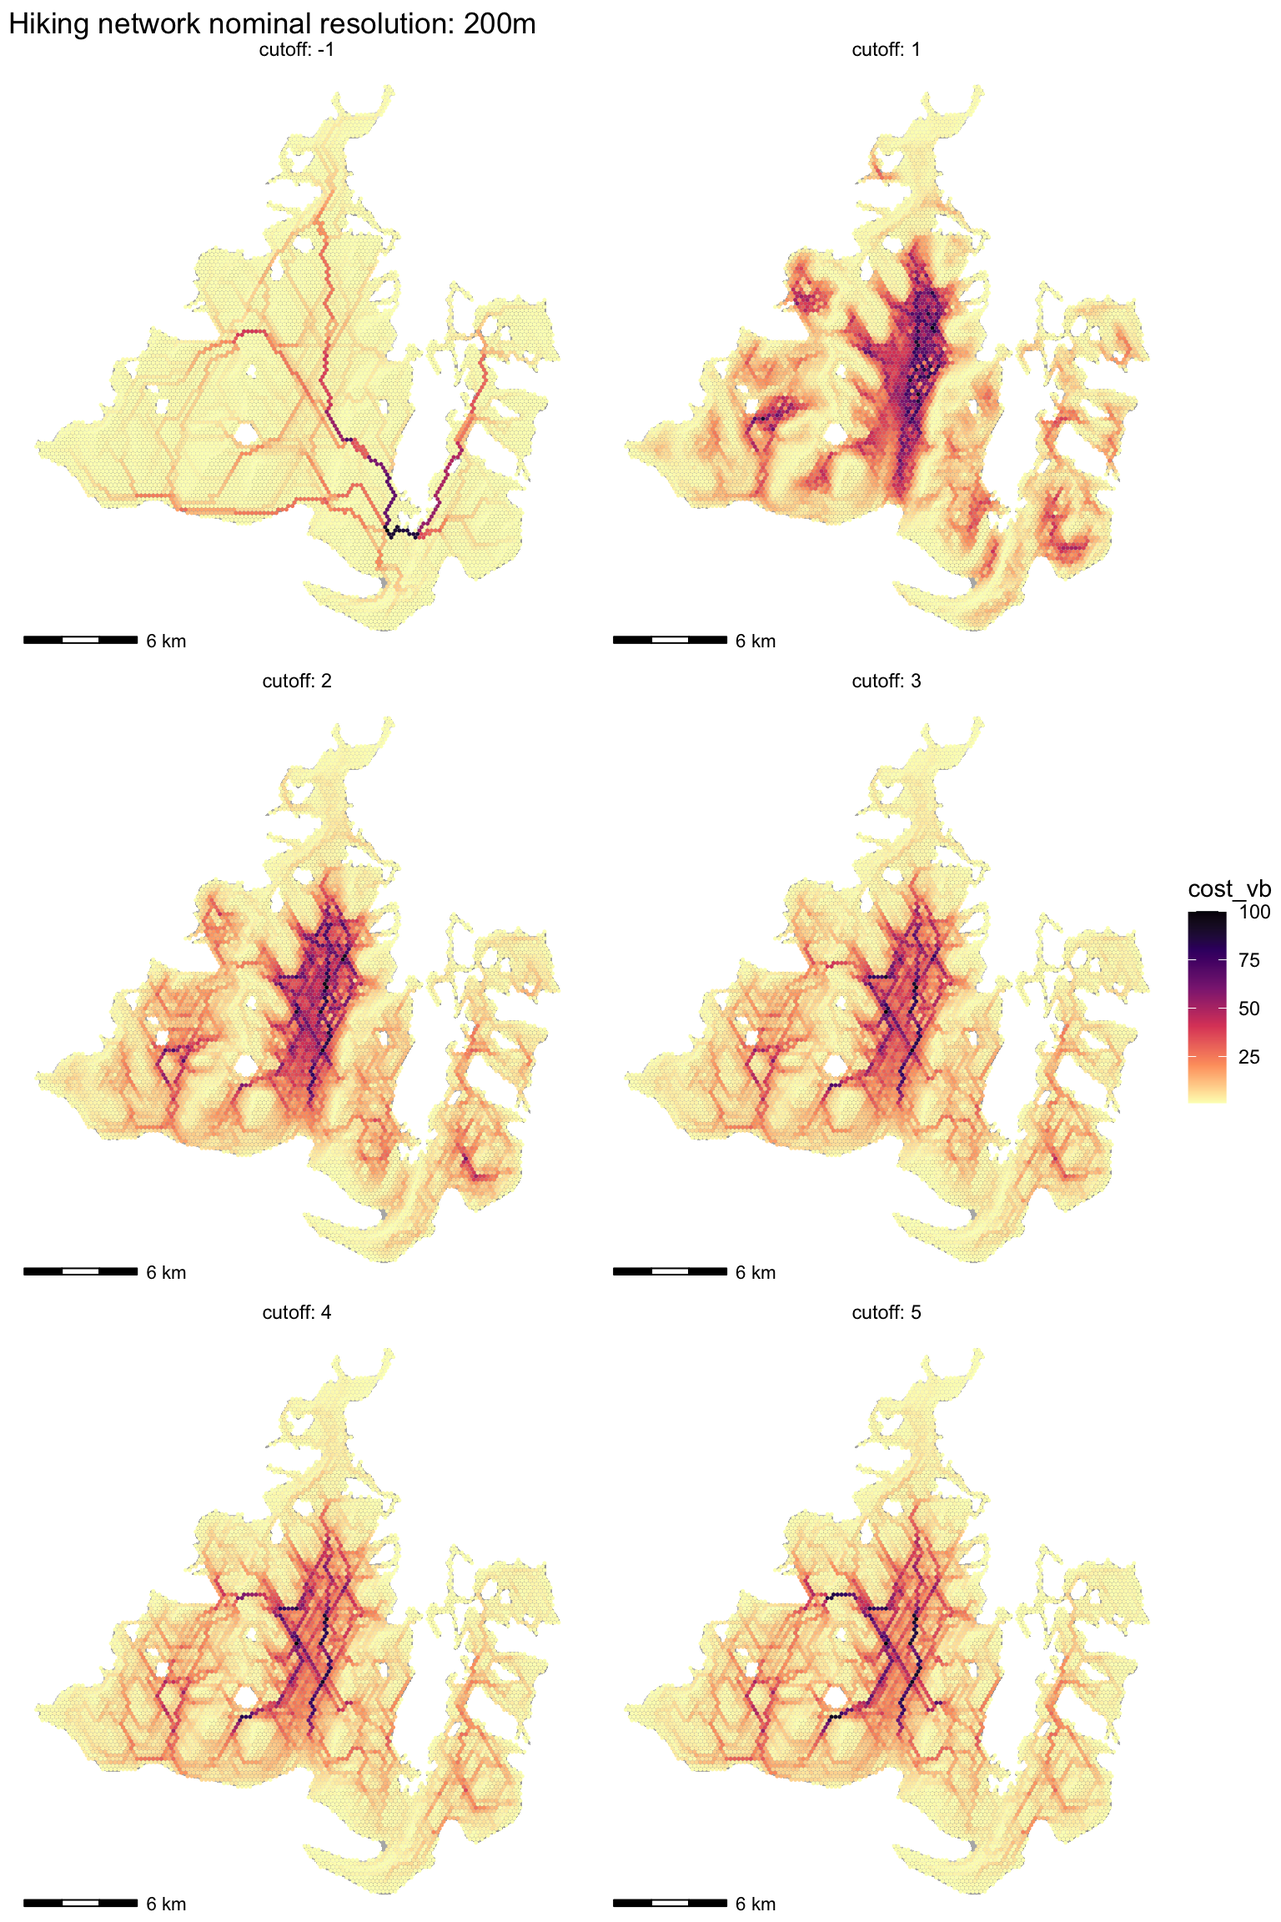
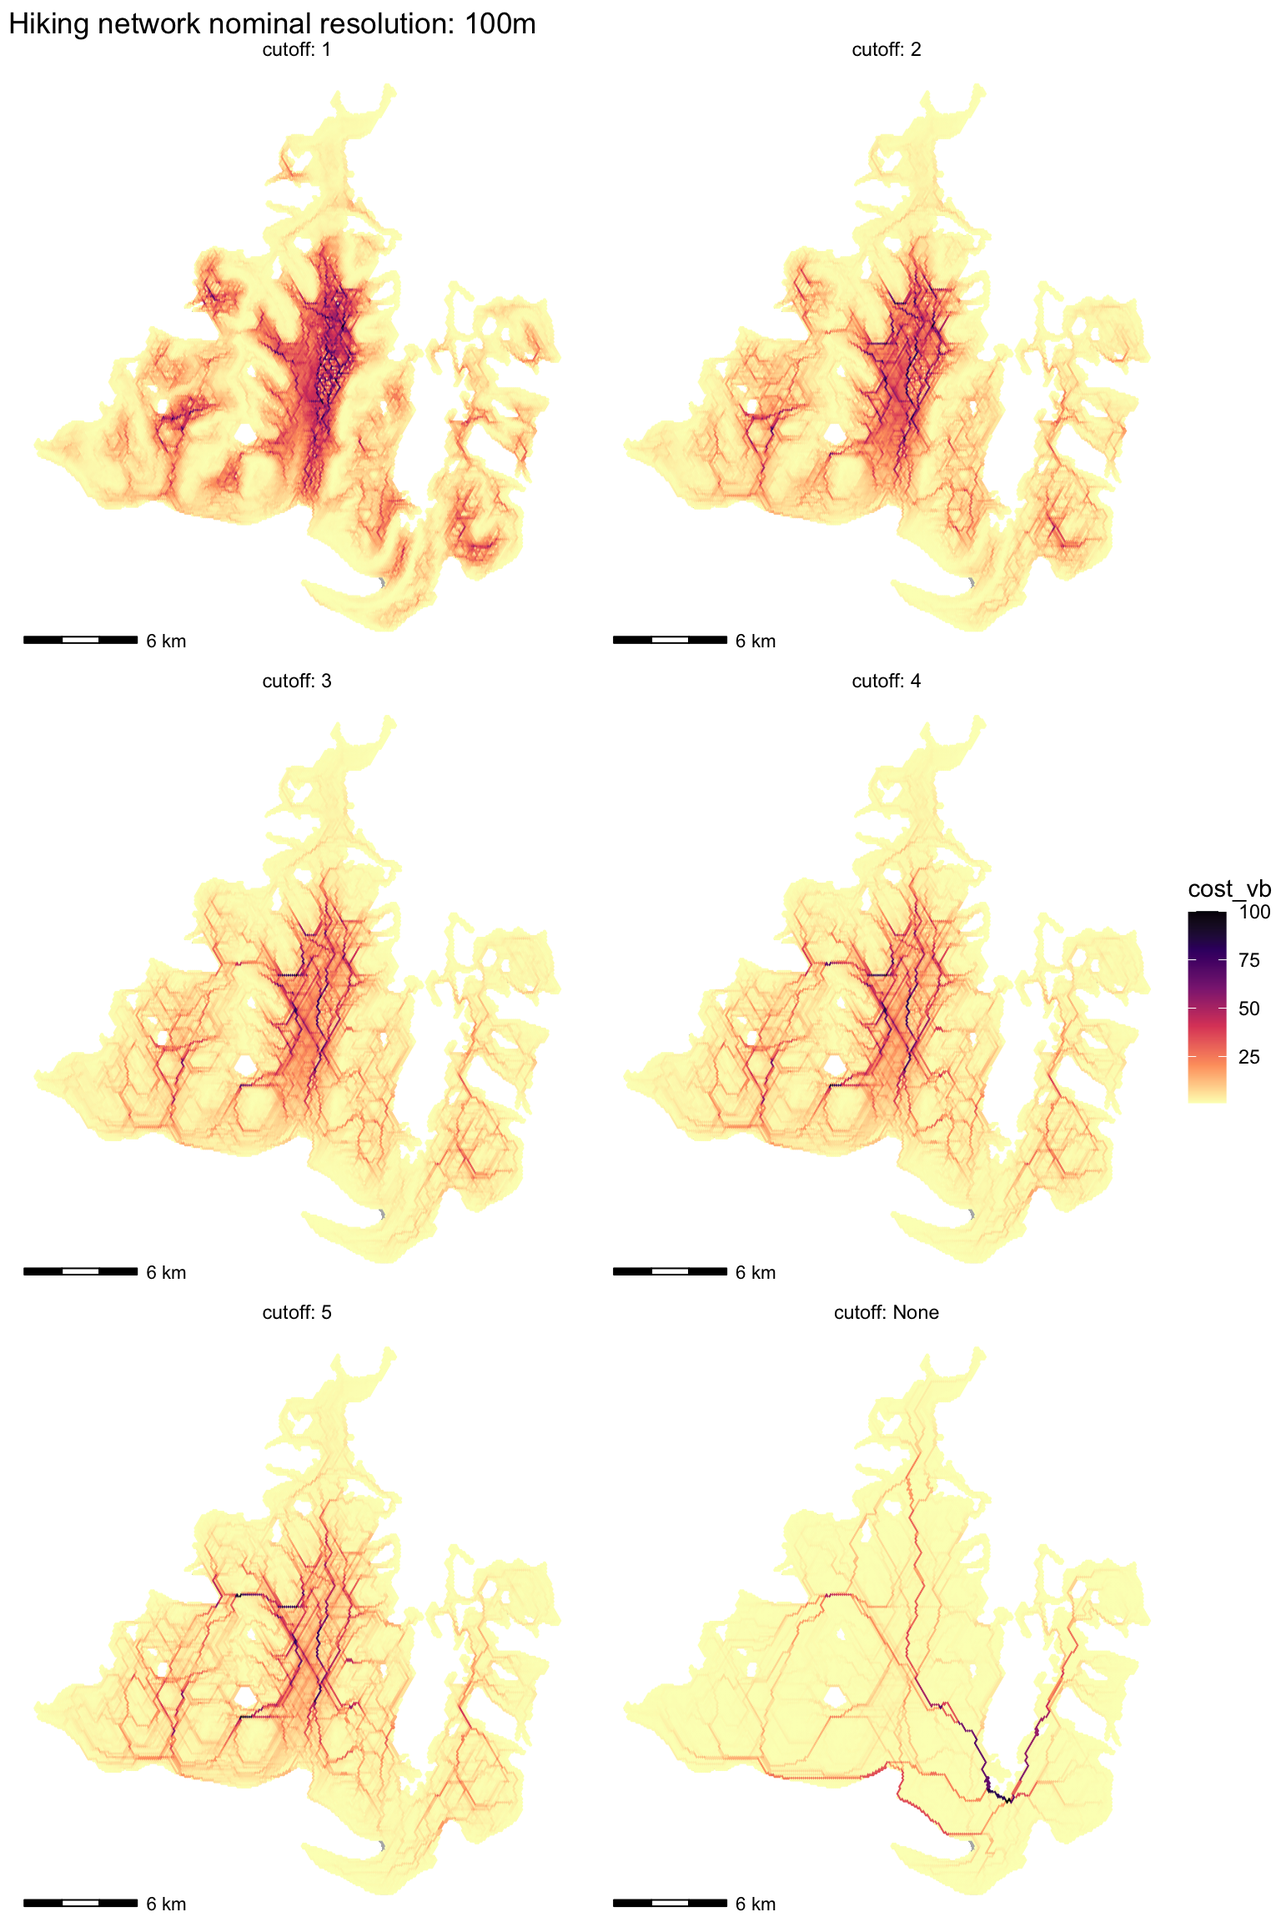
a bit more clarification on compute times

diff --git a/docs/notebooks/07-compute-times-of-hiking-network-analysis.html b/docs/notebooks/07-compute-times-of-hiking-network-analysis.html
@@ -409,33 +409,39 @@ Update History
 <span id="cb3-66"><a href="#cb3-66" aria-hidden="true" tabindex="-1"></a>results <span class="ot">&lt;-</span> <span class="fu">bind_rows</span>(results)</span></code><button title="Copy to Clipboard" class="code-copy-button"><i class="bi"></i></button></pre></div>
 </div>
 <div class="cell">
-<div class="sourceCode cell-code" id="cb4"><pre class="sourceCode r code-with-copy"><code class="sourceCode r"><span id="cb4-1"><a href="#cb4-1" aria-hidden="true" tabindex="-1"></a>hillshade_basemap <span class="sc">+</span> </span>
-<span id="cb4-2"><a href="#cb4-2" aria-hidden="true" tabindex="-1"></a>  <span class="fu">geom_point</span>(<span class="at">data =</span> results <span class="sc">|&gt;</span> <span class="fu">filter</span>(resolution <span class="sc">==</span> <span class="dv">100</span>), </span>
-<span id="cb4-3"><a href="#cb4-3" aria-hidden="true" tabindex="-1"></a>             <span class="fu">aes</span>(<span class="at">x =</span> x, <span class="at">y =</span> y, <span class="at">colour =</span> cost_vb), <span class="at">size =</span> <span class="fl">0.09</span>) <span class="sc">+</span> </span>
-<span id="cb4-4"><a href="#cb4-4" aria-hidden="true" tabindex="-1"></a>  <span class="fu">scale_colour_viridis_c</span>(<span class="at">option =</span> <span class="st">"A"</span>, <span class="at">direction =</span> <span class="sc">-</span><span class="dv">1</span>) <span class="sc">+</span> </span>
-<span id="cb4-5"><a href="#cb4-5" aria-hidden="true" tabindex="-1"></a>  <span class="fu">coord_equal</span>() <span class="sc">+</span> </span>
-<span id="cb4-6"><a href="#cb4-6" aria-hidden="true" tabindex="-1"></a>  <span class="fu">facet_wrap</span>( <span class="sc">~</span> cutoff, <span class="at">nrow =</span> <span class="dv">3</span>, <span class="at">labeller =</span> label_both) <span class="sc">+</span></span>
-<span id="cb4-7"><a href="#cb4-7" aria-hidden="true" tabindex="-1"></a>  <span class="fu">ggtitle</span>(<span class="st">"Hiking network nominal resolution: 100m"</span>)</span></code><button title="Copy to Clipboard" class="code-copy-button"><i class="bi"></i></button></pre></div>
+<div class="sourceCode cell-code" id="cb4"><pre class="sourceCode r code-with-copy"><code class="sourceCode r"><span id="cb4-1"><a href="#cb4-1" aria-hidden="true" tabindex="-1"></a>results <span class="ot">&lt;-</span> results <span class="sc">|&gt;</span> </span>
+<span id="cb4-2"><a href="#cb4-2" aria-hidden="true" tabindex="-1"></a>  <span class="fu">mutate</span>(<span class="at">resolution =</span> <span class="fu">as.factor</span>(resolution),</span>
+<span id="cb4-3"><a href="#cb4-3" aria-hidden="true" tabindex="-1"></a>         <span class="at">cutoff =</span> <span class="fu">as.factor</span>(cutoff)) <span class="sc">|&gt;</span></span>
+<span id="cb4-4"><a href="#cb4-4" aria-hidden="true" tabindex="-1"></a>  <span class="fu">mutate</span>(<span class="at">cutoff =</span> <span class="fu">if_else</span>(cutoff <span class="sc">==</span> <span class="sc">-</span><span class="dv">1</span>, <span class="st">"None"</span>, cutoff))</span></code><button title="Copy to Clipboard" class="code-copy-button"><i class="bi"></i></button></pre></div>
+</div>
+<div class="cell">
+<div class="sourceCode cell-code" id="cb5"><pre class="sourceCode r code-with-copy"><code class="sourceCode r"><span id="cb5-1"><a href="#cb5-1" aria-hidden="true" tabindex="-1"></a>hillshade_basemap <span class="sc">+</span> </span>
+<span id="cb5-2"><a href="#cb5-2" aria-hidden="true" tabindex="-1"></a>  <span class="fu">geom_point</span>(<span class="at">data =</span> results <span class="sc">|&gt;</span> <span class="fu">filter</span>(resolution <span class="sc">==</span> <span class="dv">100</span>), </span>
+<span id="cb5-3"><a href="#cb5-3" aria-hidden="true" tabindex="-1"></a>             <span class="fu">aes</span>(<span class="at">x =</span> x, <span class="at">y =</span> y, <span class="at">colour =</span> cost_vb), <span class="at">size =</span> <span class="fl">0.09</span>) <span class="sc">+</span> </span>
+<span id="cb5-4"><a href="#cb5-4" aria-hidden="true" tabindex="-1"></a>  <span class="fu">scale_colour_viridis_c</span>(<span class="at">option =</span> <span class="st">"A"</span>, <span class="at">direction =</span> <span class="sc">-</span><span class="dv">1</span>) <span class="sc">+</span> </span>
+<span id="cb5-5"><a href="#cb5-5" aria-hidden="true" tabindex="-1"></a>  <span class="fu">coord_equal</span>() <span class="sc">+</span> </span>
+<span id="cb5-6"><a href="#cb5-6" aria-hidden="true" tabindex="-1"></a>  <span class="fu">facet_wrap</span>( <span class="sc">~</span> cutoff, <span class="at">nrow =</span> <span class="dv">3</span>, <span class="at">labeller =</span> label_both) <span class="sc">+</span></span>
+<span id="cb5-7"><a href="#cb5-7" aria-hidden="true" tabindex="-1"></a>  <span class="fu">ggtitle</span>(<span class="st">"Hiking network nominal resolution: 100m"</span>)</span></code><button title="Copy to Clipboard" class="code-copy-button"><i class="bi"></i></button></pre></div>
 <div class="cell-output-display">
 <div>
 <figure class="figure">
-<p><a href="07-compute-times-of-hiking-network-analysis_files/figure-html/unnamed-chunk-4-1.png" class="lightbox" data-gallery="quarto-lightbox-gallery-1"><img src="07-compute-times-of-hiking-network-analysis_files/figure-html/unnamed-chunk-4-1.png" class="img-fluid figure-img" width="768"></a></p>
+<p><a href="07-compute-times-of-hiking-network-analysis_files/figure-html/unnamed-chunk-5-1.png" class="lightbox" data-gallery="quarto-lightbox-gallery-1"><img src="07-compute-times-of-hiking-network-analysis_files/figure-html/unnamed-chunk-5-1.png" class="img-fluid figure-img" width="768"></a></p>
 </figure>
 </div>
 </div>
 </div>
 <div class="cell">
-<div class="sourceCode cell-code" id="cb5"><pre class="sourceCode r code-with-copy"><code class="sourceCode r"><span id="cb5-1"><a href="#cb5-1" aria-hidden="true" tabindex="-1"></a>hillshade_basemap <span class="sc">+</span> </span>
-<span id="cb5-2"><a href="#cb5-2" aria-hidden="true" tabindex="-1"></a>  <span class="fu">geom_point</span>(<span class="at">data =</span> results <span class="sc">|&gt;</span> <span class="fu">filter</span>(resolution <span class="sc">==</span> <span class="dv">200</span>), </span>
-<span id="cb5-3"><a href="#cb5-3" aria-hidden="true" tabindex="-1"></a>             <span class="fu">aes</span>(<span class="at">x =</span> x, <span class="at">y =</span> y, <span class="at">colour =</span> cost_vb), <span class="at">size =</span> <span class="fl">0.2</span>) <span class="sc">+</span> </span>
-<span id="cb5-4"><a href="#cb5-4" aria-hidden="true" tabindex="-1"></a>  <span class="fu">scale_colour_viridis_c</span>(<span class="at">option =</span> <span class="st">"A"</span>, <span class="at">direction =</span> <span class="sc">-</span><span class="dv">1</span>) <span class="sc">+</span></span>
-<span id="cb5-5"><a href="#cb5-5" aria-hidden="true" tabindex="-1"></a>  <span class="fu">coord_equal</span>() <span class="sc">+</span> </span>
-<span id="cb5-6"><a href="#cb5-6" aria-hidden="true" tabindex="-1"></a>  <span class="fu">facet_wrap</span>( <span class="sc">~</span> cutoff, <span class="at">nrow =</span> <span class="dv">3</span>, <span class="at">labeller =</span> label_both) <span class="sc">+</span></span>
-<span id="cb5-7"><a href="#cb5-7" aria-hidden="true" tabindex="-1"></a>  <span class="fu">ggtitle</span>(<span class="st">"Hiking network nominal resolution: 200m"</span>)</span></code><button title="Copy to Clipboard" class="code-copy-button"><i class="bi"></i></button></pre></div>
+<div class="sourceCode cell-code" id="cb6"><pre class="sourceCode r code-with-copy"><code class="sourceCode r"><span id="cb6-1"><a href="#cb6-1" aria-hidden="true" tabindex="-1"></a>hillshade_basemap <span class="sc">+</span> </span>
+<span id="cb6-2"><a href="#cb6-2" aria-hidden="true" tabindex="-1"></a>  <span class="fu">geom_point</span>(<span class="at">data =</span> results <span class="sc">|&gt;</span> <span class="fu">filter</span>(resolution <span class="sc">==</span> <span class="dv">200</span>), </span>
+<span id="cb6-3"><a href="#cb6-3" aria-hidden="true" tabindex="-1"></a>             <span class="fu">aes</span>(<span class="at">x =</span> x, <span class="at">y =</span> y, <span class="at">colour =</span> cost_vb), <span class="at">size =</span> <span class="fl">0.2</span>) <span class="sc">+</span> </span>
+<span id="cb6-4"><a href="#cb6-4" aria-hidden="true" tabindex="-1"></a>  <span class="fu">scale_colour_viridis_c</span>(<span class="at">option =</span> <span class="st">"A"</span>, <span class="at">direction =</span> <span class="sc">-</span><span class="dv">1</span>) <span class="sc">+</span></span>
+<span id="cb6-5"><a href="#cb6-5" aria-hidden="true" tabindex="-1"></a>  <span class="fu">coord_equal</span>() <span class="sc">+</span> </span>
+<span id="cb6-6"><a href="#cb6-6" aria-hidden="true" tabindex="-1"></a>  <span class="fu">facet_wrap</span>( <span class="sc">~</span> cutoff, <span class="at">nrow =</span> <span class="dv">3</span>, <span class="at">labeller =</span> label_both) <span class="sc">+</span></span>
+<span id="cb6-7"><a href="#cb6-7" aria-hidden="true" tabindex="-1"></a>  <span class="fu">ggtitle</span>(<span class="st">"Hiking network nominal resolution: 200m"</span>)</span></code><button title="Copy to Clipboard" class="code-copy-button"><i class="bi"></i></button></pre></div>
 <div class="cell-output-display">
 <div>
 <figure class="figure">
-<p><a href="07-compute-times-of-hiking-network-analysis_files/figure-html/unnamed-chunk-5-1.png" class="lightbox" data-gallery="quarto-lightbox-gallery-2"><img src="07-compute-times-of-hiking-network-analysis_files/figure-html/unnamed-chunk-5-1.png" class="img-fluid figure-img" width="768"></a></p>
+<p><a href="07-compute-times-of-hiking-network-analysis_files/figure-html/unnamed-chunk-6-1.png" class="lightbox" data-gallery="quarto-lightbox-gallery-2"><img src="07-compute-times-of-hiking-network-analysis_files/figure-html/unnamed-chunk-6-1.png" class="img-fluid figure-img" width="768"></a></p>
 </figure>
 </div>
 </div>
@@ -456,29 +462,28 @@ Update History
 <h2 class="anchored" data-anchor-id="timings">Timings</h2>
 <p>The timing for this small area of interest at these resolutions and cutoff times are tabulated below.</p>
 <div class="cell">
-<div class="sourceCode cell-code" id="cb7"><pre class="sourceCode r code-with-copy"><code class="sourceCode r"><span id="cb7-1"><a href="#cb7-1" aria-hidden="true" tabindex="-1"></a>df <span class="ot">&lt;-</span> results <span class="sc">|&gt;</span> </span>
-<span id="cb7-2"><a href="#cb7-2" aria-hidden="true" tabindex="-1"></a>  <span class="fu">select</span>(resolution, vb_base_time, vb_cost_time, cutoff) <span class="sc">|&gt;</span></span>
-<span id="cb7-3"><a href="#cb7-3" aria-hidden="true" tabindex="-1"></a>  <span class="fu">filter</span>(cutoff <span class="sc">&gt;</span> <span class="dv">0</span>) <span class="sc">|&gt;</span></span>
-<span id="cb7-4"><a href="#cb7-4" aria-hidden="true" tabindex="-1"></a>  <span class="fu">mutate</span>(<span class="at">resolution =</span> <span class="fu">as.factor</span>(resolution)) <span class="sc">|&gt;</span></span>
-<span id="cb7-5"><a href="#cb7-5" aria-hidden="true" tabindex="-1"></a>  <span class="fu">distinct</span>() <span class="sc">|&gt;</span></span>
-<span id="cb7-6"><a href="#cb7-6" aria-hidden="true" tabindex="-1"></a>  <span class="fu">pivot_longer</span>(<span class="at">cols =</span> <span class="fu">c</span>(vb_base_time, vb_cost_time))</span>
-<span id="cb7-7"><a href="#cb7-7" aria-hidden="true" tabindex="-1"></a></span>
-<span id="cb7-8"><a href="#cb7-8" aria-hidden="true" tabindex="-1"></a><span class="fu">ggplot</span>(df) <span class="sc">+</span></span>
-<span id="cb7-9"><a href="#cb7-9" aria-hidden="true" tabindex="-1"></a>  <span class="fu">geom_col</span>(<span class="fu">aes</span>(<span class="at">x =</span> cutoff, <span class="at">y =</span> value, <span class="at">group =</span> resolution, <span class="at">fill =</span> resolution), <span class="at">position =</span> <span class="st">"dodge"</span>) <span class="sc">+</span></span>
-<span id="cb7-10"><a href="#cb7-10" aria-hidden="true" tabindex="-1"></a>  <span class="fu">xlab</span>(<span class="st">"Betweenness calculation est. hiking time cutoff"</span>) <span class="sc">+</span></span>
-<span id="cb7-11"><a href="#cb7-11" aria-hidden="true" tabindex="-1"></a>  <span class="fu">ylab</span>(<span class="st">"Time, sec"</span>) <span class="sc">+</span></span>
-<span id="cb7-12"><a href="#cb7-12" aria-hidden="true" tabindex="-1"></a>  <span class="fu">theme_minimal</span>()</span></code><button title="Copy to Clipboard" class="code-copy-button"><i class="bi"></i></button></pre></div>
+<div class="sourceCode cell-code" id="cb8"><pre class="sourceCode r code-with-copy"><code class="sourceCode r"><span id="cb8-1"><a href="#cb8-1" aria-hidden="true" tabindex="-1"></a>df <span class="ot">&lt;-</span> results <span class="sc">|&gt;</span> </span>
+<span id="cb8-2"><a href="#cb8-2" aria-hidden="true" tabindex="-1"></a>  <span class="fu">select</span>(resolution, vb_base_time, vb_cost_time, cutoff) <span class="sc">|&gt;</span></span>
+<span id="cb8-3"><a href="#cb8-3" aria-hidden="true" tabindex="-1"></a>  <span class="fu">distinct</span>() <span class="sc">|&gt;</span></span>
+<span id="cb8-4"><a href="#cb8-4" aria-hidden="true" tabindex="-1"></a>  <span class="fu">pivot_longer</span>(<span class="at">cols =</span> <span class="fu">c</span>(vb_base_time, vb_cost_time))</span>
+<span id="cb8-5"><a href="#cb8-5" aria-hidden="true" tabindex="-1"></a></span>
+<span id="cb8-6"><a href="#cb8-6" aria-hidden="true" tabindex="-1"></a><span class="fu">ggplot</span>(df) <span class="sc">+</span></span>
+<span id="cb8-7"><a href="#cb8-7" aria-hidden="true" tabindex="-1"></a>  <span class="fu">geom_col</span>(<span class="fu">aes</span>(<span class="at">x =</span> cutoff, <span class="at">y =</span> value, <span class="at">group =</span> resolution, <span class="at">fill =</span> resolution), <span class="at">position =</span> <span class="st">"dodge"</span>) <span class="sc">+</span></span>
+<span id="cb8-8"><a href="#cb8-8" aria-hidden="true" tabindex="-1"></a>  <span class="fu">xlab</span>(<span class="st">"Betweenness calculation est. hiking time cutoff"</span>) <span class="sc">+</span></span>
+<span id="cb8-9"><a href="#cb8-9" aria-hidden="true" tabindex="-1"></a>  <span class="fu">ylab</span>(<span class="st">"Time, sec"</span>) <span class="sc">+</span></span>
+<span id="cb8-10"><a href="#cb8-10" aria-hidden="true" tabindex="-1"></a>  <span class="fu">theme_minimal</span>()</span></code><button title="Copy to Clipboard" class="code-copy-button"><i class="bi"></i></button></pre></div>
 <div class="cell-output-display">
 <div>
 <figure class="figure">
-<p><a href="07-compute-times-of-hiking-network-analysis_files/figure-html/unnamed-chunk-6-1.png" class="lightbox" data-gallery="quarto-lightbox-gallery-3"><img src="07-compute-times-of-hiking-network-analysis_files/figure-html/unnamed-chunk-6-1.png" class="img-fluid figure-img" width="672"></a></p>
+<p><a href="07-compute-times-of-hiking-network-analysis_files/figure-html/unnamed-chunk-7-1.png" class="lightbox" data-gallery="quarto-lightbox-gallery-3"><img src="07-compute-times-of-hiking-network-analysis_files/figure-html/unnamed-chunk-7-1.png" class="img-fluid figure-img" width="672"></a></p>
 </figure>
 </div>
 </div>
 </div>
 <p>This confirms that the time to perform betweenness centrality estimation increases with the square of the number of vertices in the network. The finer resolution network (100m) has <em>four</em> times as many nodes, and analysis takes around 16 times longer (&gt;15 seconds vs ~ 1 second in the cutoff = 5 case).</p>
-<p>Further analysis of larger networks (the networks for the largest contiguous region are about 10 times larger than this one) confirms this result, with comparable analyses taking ~100 times longer, which on the computer used (an M2 Mac Mini) translates to around 45 minutes for the most extensive betweenness estimation at 100m resolution.</p>
-<p>These results suggest that it is important to settle on a resolution and cutoff distance judged appropriate for ongoing work to avoid costly repetition of sometimes time-consuming analysis.</p>
+<p>When no cutoff time is used, the betweenness calculation takes <em>much</em> longer. It is clear from the maps above that the no cutoff case identifies ‘arterials’ although it is unclear that this is the most relevant concern for expected environmental impacts.</p>
+<p>Further analysis of larger networks (the networks for the largest contiguous region are about 10 times larger than this one) confirms this result, with comparable analyses taking ~100 times longer, which on the computer used (an M2 Mac Mini) translates to several hours compute time for the most extensive betweenness estimation at 100m resolution.</p>
+<p>These results suggest that it is important to settle on a resolution and cutoff distance judged appropriate for ongoing work to avoid costly repetition of sometimes time-consuming analysis. It is almost certainly preferable to apply some cutoff estimated hiking time to the calculation in any case.</p>
 
 
 </section>
@@ -906,7 +911,7 @@ window.document.addEventListener("DOMContentLoaded", function (event) {
   </div>
 </nav>
 </div> <!-- /content -->
-<script>var lightboxQuarto = GLightbox({"selector":".lightbox","openEffect":"zoom","closeEffect":"zoom","descPosition":"bottom","loop":false});
+<script>var lightboxQuarto = GLightbox({"openEffect":"zoom","closeEffect":"zoom","descPosition":"bottom","loop":false,"selector":".lightbox"});
 window.onload = () => {
   lightboxQuarto.on('slide_before_load', (data) => {
     const { slideIndex, slideNode, slideConfig, player, trigger } = data;

diff --git a/docs/index.html b/docs/index.html
@@ -464,10 +464,10 @@ David O’Sullivan
 </a>
 </div>
 </div>
-<div class="quarto-post image-right" data-index="7" data-listing-date-sort="1725278400000" data-listing-file-modified-sort="1725418360483" data-listing-date-modified-sort="NaN" data-listing-reading-time-sort="7" data-listing-word-count-sort="1202">
+<div class="quarto-post image-right" data-index="7" data-listing-date-sort="1725278400000" data-listing-file-modified-sort="1725419600872" data-listing-date-modified-sort="NaN" data-listing-reading-time-sort="7" data-listing-word-count-sort="1279">
 <div class="thumbnail">
 <p><a href="./notebooks/07-compute-times-of-hiking-network-analysis.html" class="no-external"></a></p><a href="./notebooks/07-compute-times-of-hiking-network-analysis.html" class="no-external">
-<p class="card-img-top"><img src="notebooks/07-compute-times-of-hiking-network-analysis_files/figure-html/unnamed-chunk-4-1.png"  class="thumbnail-image card-img"/></p>
+<p class="card-img-top"><img src="notebooks/07-compute-times-of-hiking-network-analysis_files/figure-html/unnamed-chunk-5-1.png"  class="thumbnail-image card-img"/></p>
 </a><p><a href="./notebooks/07-compute-times-of-hiking-network-analysis.html" class="no-external"></a></p>
 </div>
 <div class="body">
